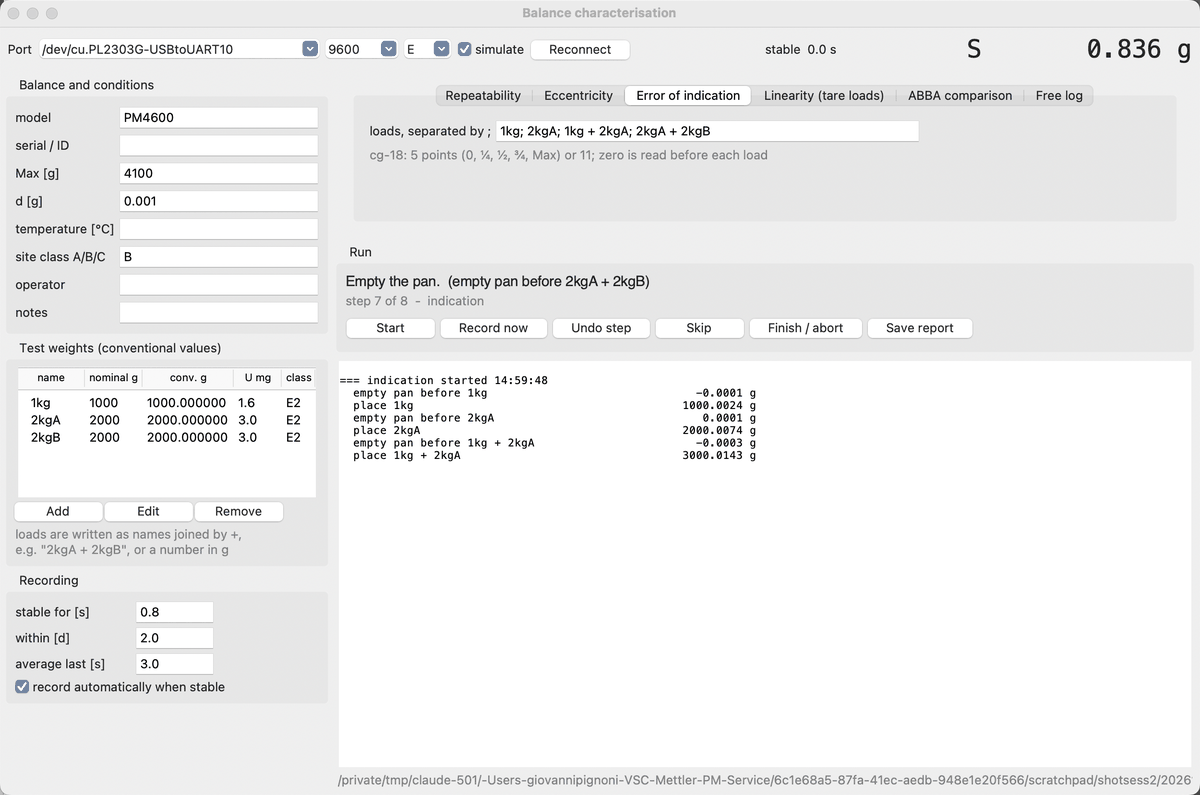
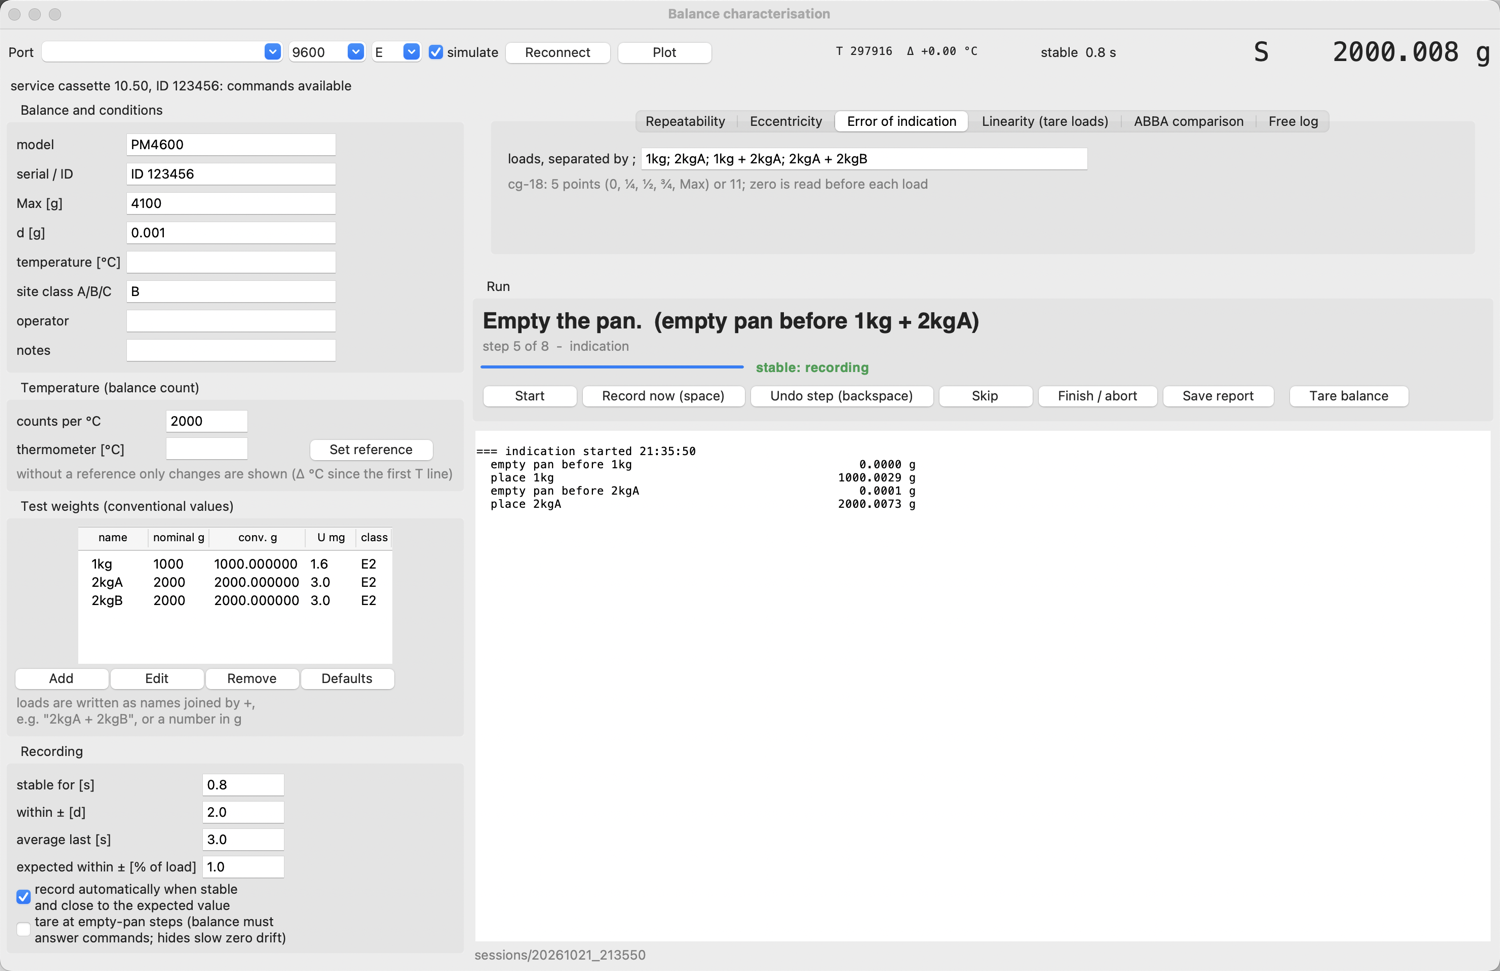
Retake the screenshot for the new interface; tidy the top bar widths and the screenshot window

diff --git a/scale_characterise.py b/scale_characterise.py
@@ -93,7 +93,7 @@ class SimSource(threading.Thread):
         if data.strip() == b'':
             self.out.put(('line', now, 'ES'))
         elif data.strip() == b'XV':
-            self.out.put(('line', now, 'XV SVC 10.50 ID 874543'))
+            self.out.put(('line', now, 'XV SVC 10.50 ID 123456'))
         elif data.strip() == b'T':
             self.tare = self.target                # tare once stable: the reading goes to zero
         return True
@@ -400,7 +400,7 @@ def gui(args):
     # ---------------- top: connection and live reading
     top = ttk.Frame(root, padding=6); top.pack(fill='x')
     ttk.Label(top, text='Port').pack(side='left')
-    port = ttk.Combobox(top, width=30); port.pack(side='left', padx=4)
+    port = ttk.Combobox(top, width=24); port.pack(side='left', padx=4)
     try:
         import serial.tools.list_ports as lp
         port['values'] = [p.device for p in lp.comports()]
@@ -482,7 +482,7 @@ def gui(args):
     link_lbl = ttk.Label(root, text='', padding=(8, 0)); link_lbl.pack(anchor='w', after=top)     # what the balance answered
     reading = ttk.Label(top, text='---', font=('Menlo', 26)); reading.pack(side='right')
     stab_lbl = ttk.Label(top, text='', width=22); stab_lbl.pack(side='right', padx=8)
-    temp_lbl = ttk.Label(top, text='', width=30, font=('Menlo', 12))      # shown once a T line arrives
+    temp_lbl = ttk.Label(top, text='', width=26, font=('Menlo', 11))      # shown once a T line arrives
     banner = tk.Label(root, text='', fg='white', bg='#b03a2e', font=('Helvetica', 14, 'bold'), pady=4)   # no data from the balance
 
     body = ttk.Frame(root, padding=6); body.pack(fill='both', expand=True)
@@ -948,7 +948,7 @@ def gui(args):
             root.destroy()
         root.after(300, stall_go); root.after(int(args.demo_stall * 1000), stall); root.after(int(args.demo_stall * 1000) + 6000, stall_check)
     if args.shot:                          # README screenshot: capture the window mid-run, then quit
-        root.geometry('1250x800+0+40')
+        root.geometry('1480x930+0+30'); root.lift(); root.attributes('-topmost', True)
         def shot():
             import subprocess
             root.update_idletasks()
